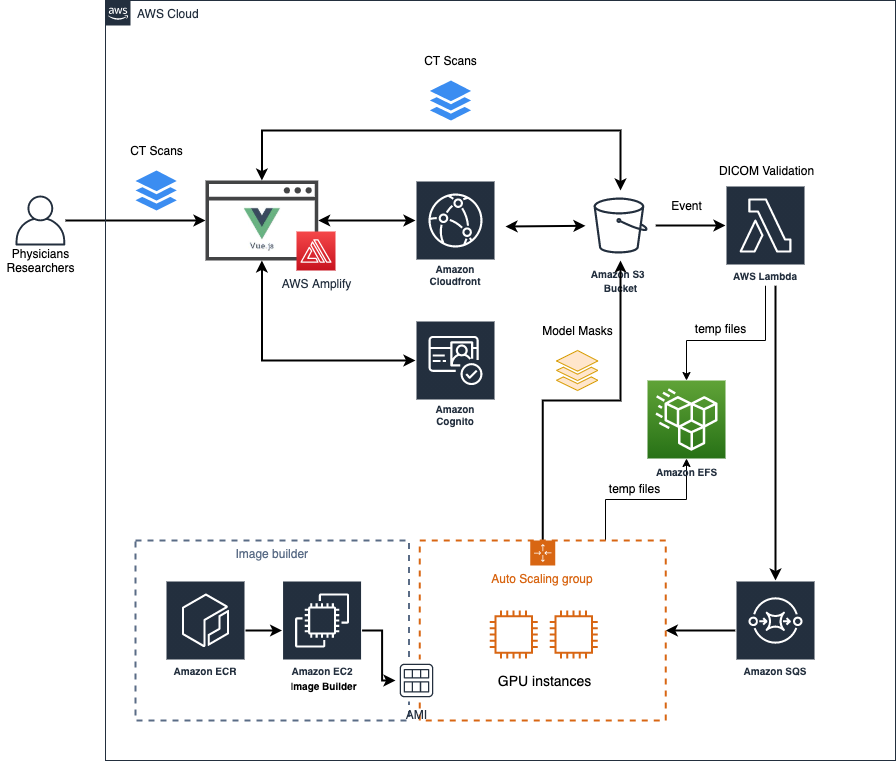
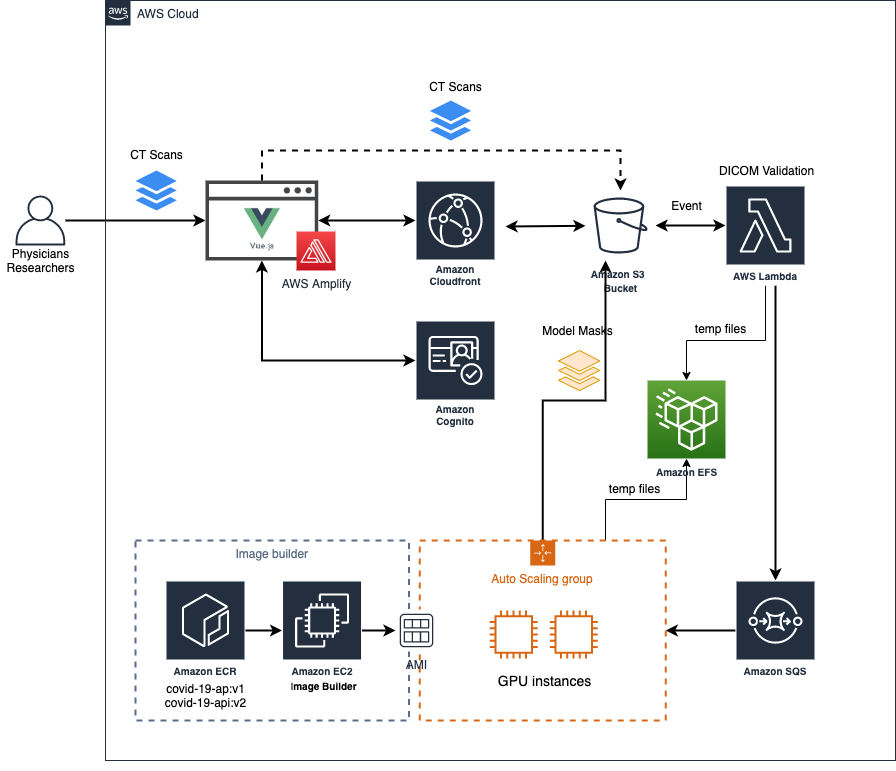
doc changes

diff --git a/README.md b/README.md
@@ -6,8 +6,10 @@ This repo contains the front and back-end to allow medical professionals around 
 ## Stack
 
 * **Front-end** - Vue.js as the core framework, Quasar for UI, Amplify for Auth UI component and AWS integration. Users access Amazon CloudFront to access the files, which are stored at Amazon S3.
-* **Data** - All data is saved in Amazon S3.
+* **Data** - All data is saved in Amazon S3 and temporaraly at Amazon EFS. 
 * **Auth** - Cognito provides JSON Web Tokens (JWT) and along with AppSync fine-grained authorization on what data types users can access.
+* **Model** - The models were containarized and deployed to Amazon ECR public repositories. 
+* **Image** - As part of the infrastructure build, a custom AMI is created with both models deployed in it to improve effeciency. 
 * **Model Processing** - In the back-end, it was essential to create a cost-effective solution as it uses GPU machines to run the model. It is inspired by an [AWS blog post](https://aws.amazon.com/blogs/compute/running-cost-effective-queue-workers-with-amazon-sqs-and-amazon-ec2-spot-instances/), which describes how to dynamically run EC2 Spot instances in response to the SQS messages, pulling the model docker image from Amazon Elastic Container Repository.
 * **Model Visualization** - Javascript plug-in displays the CT Scan image slices with the model results overlaid on top. 
 
